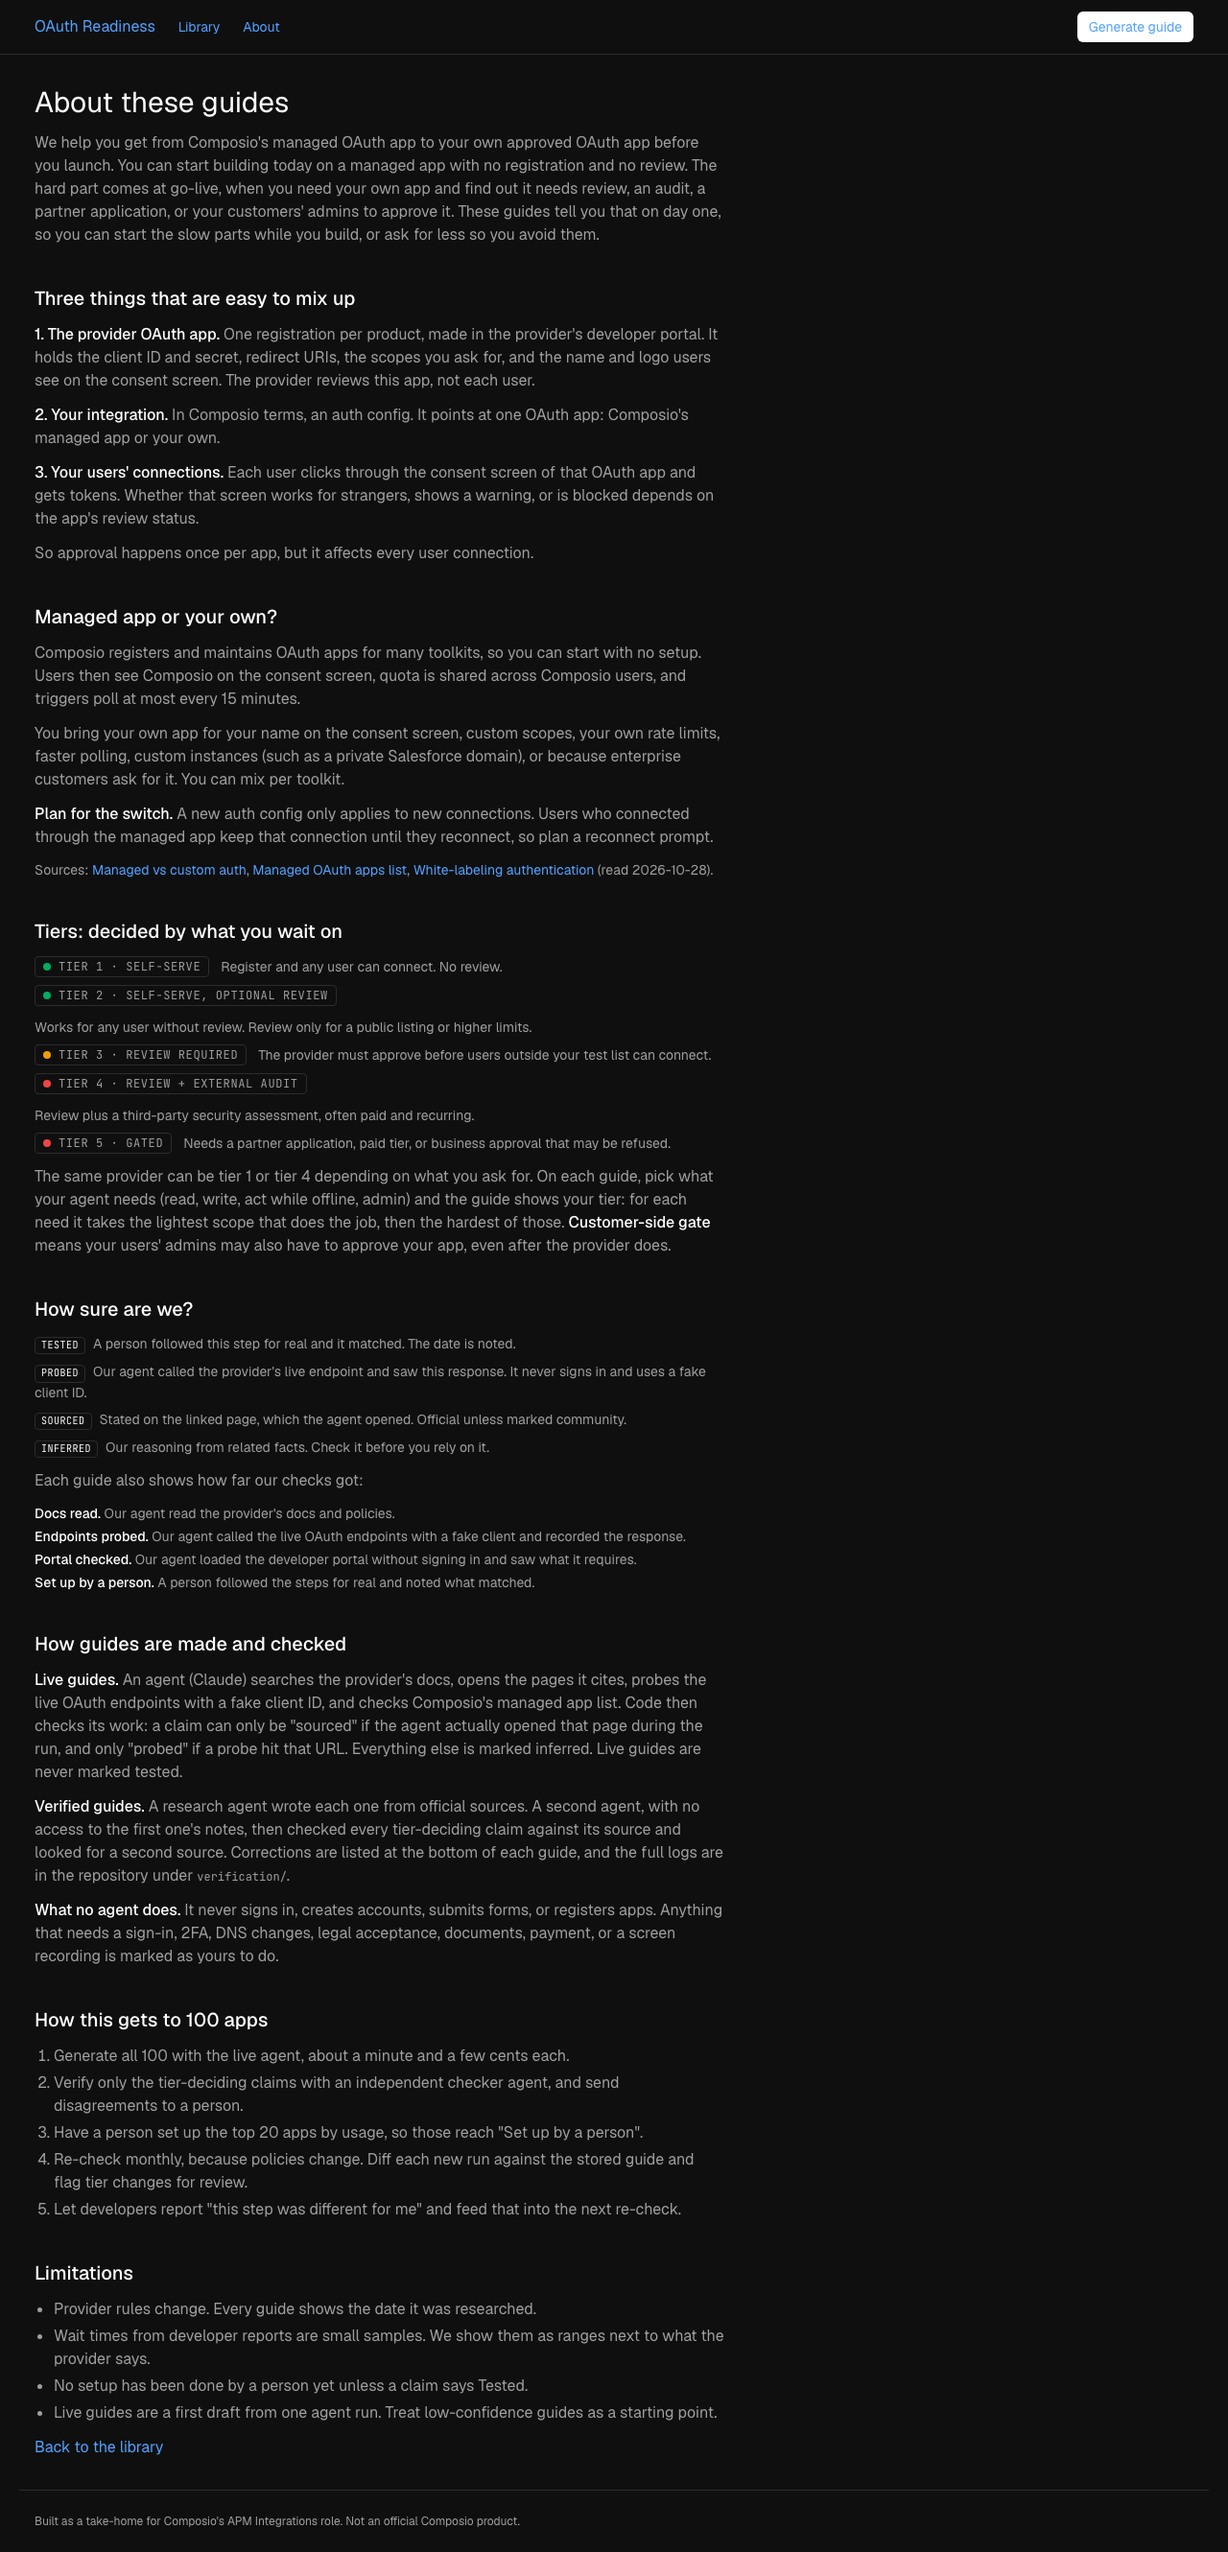
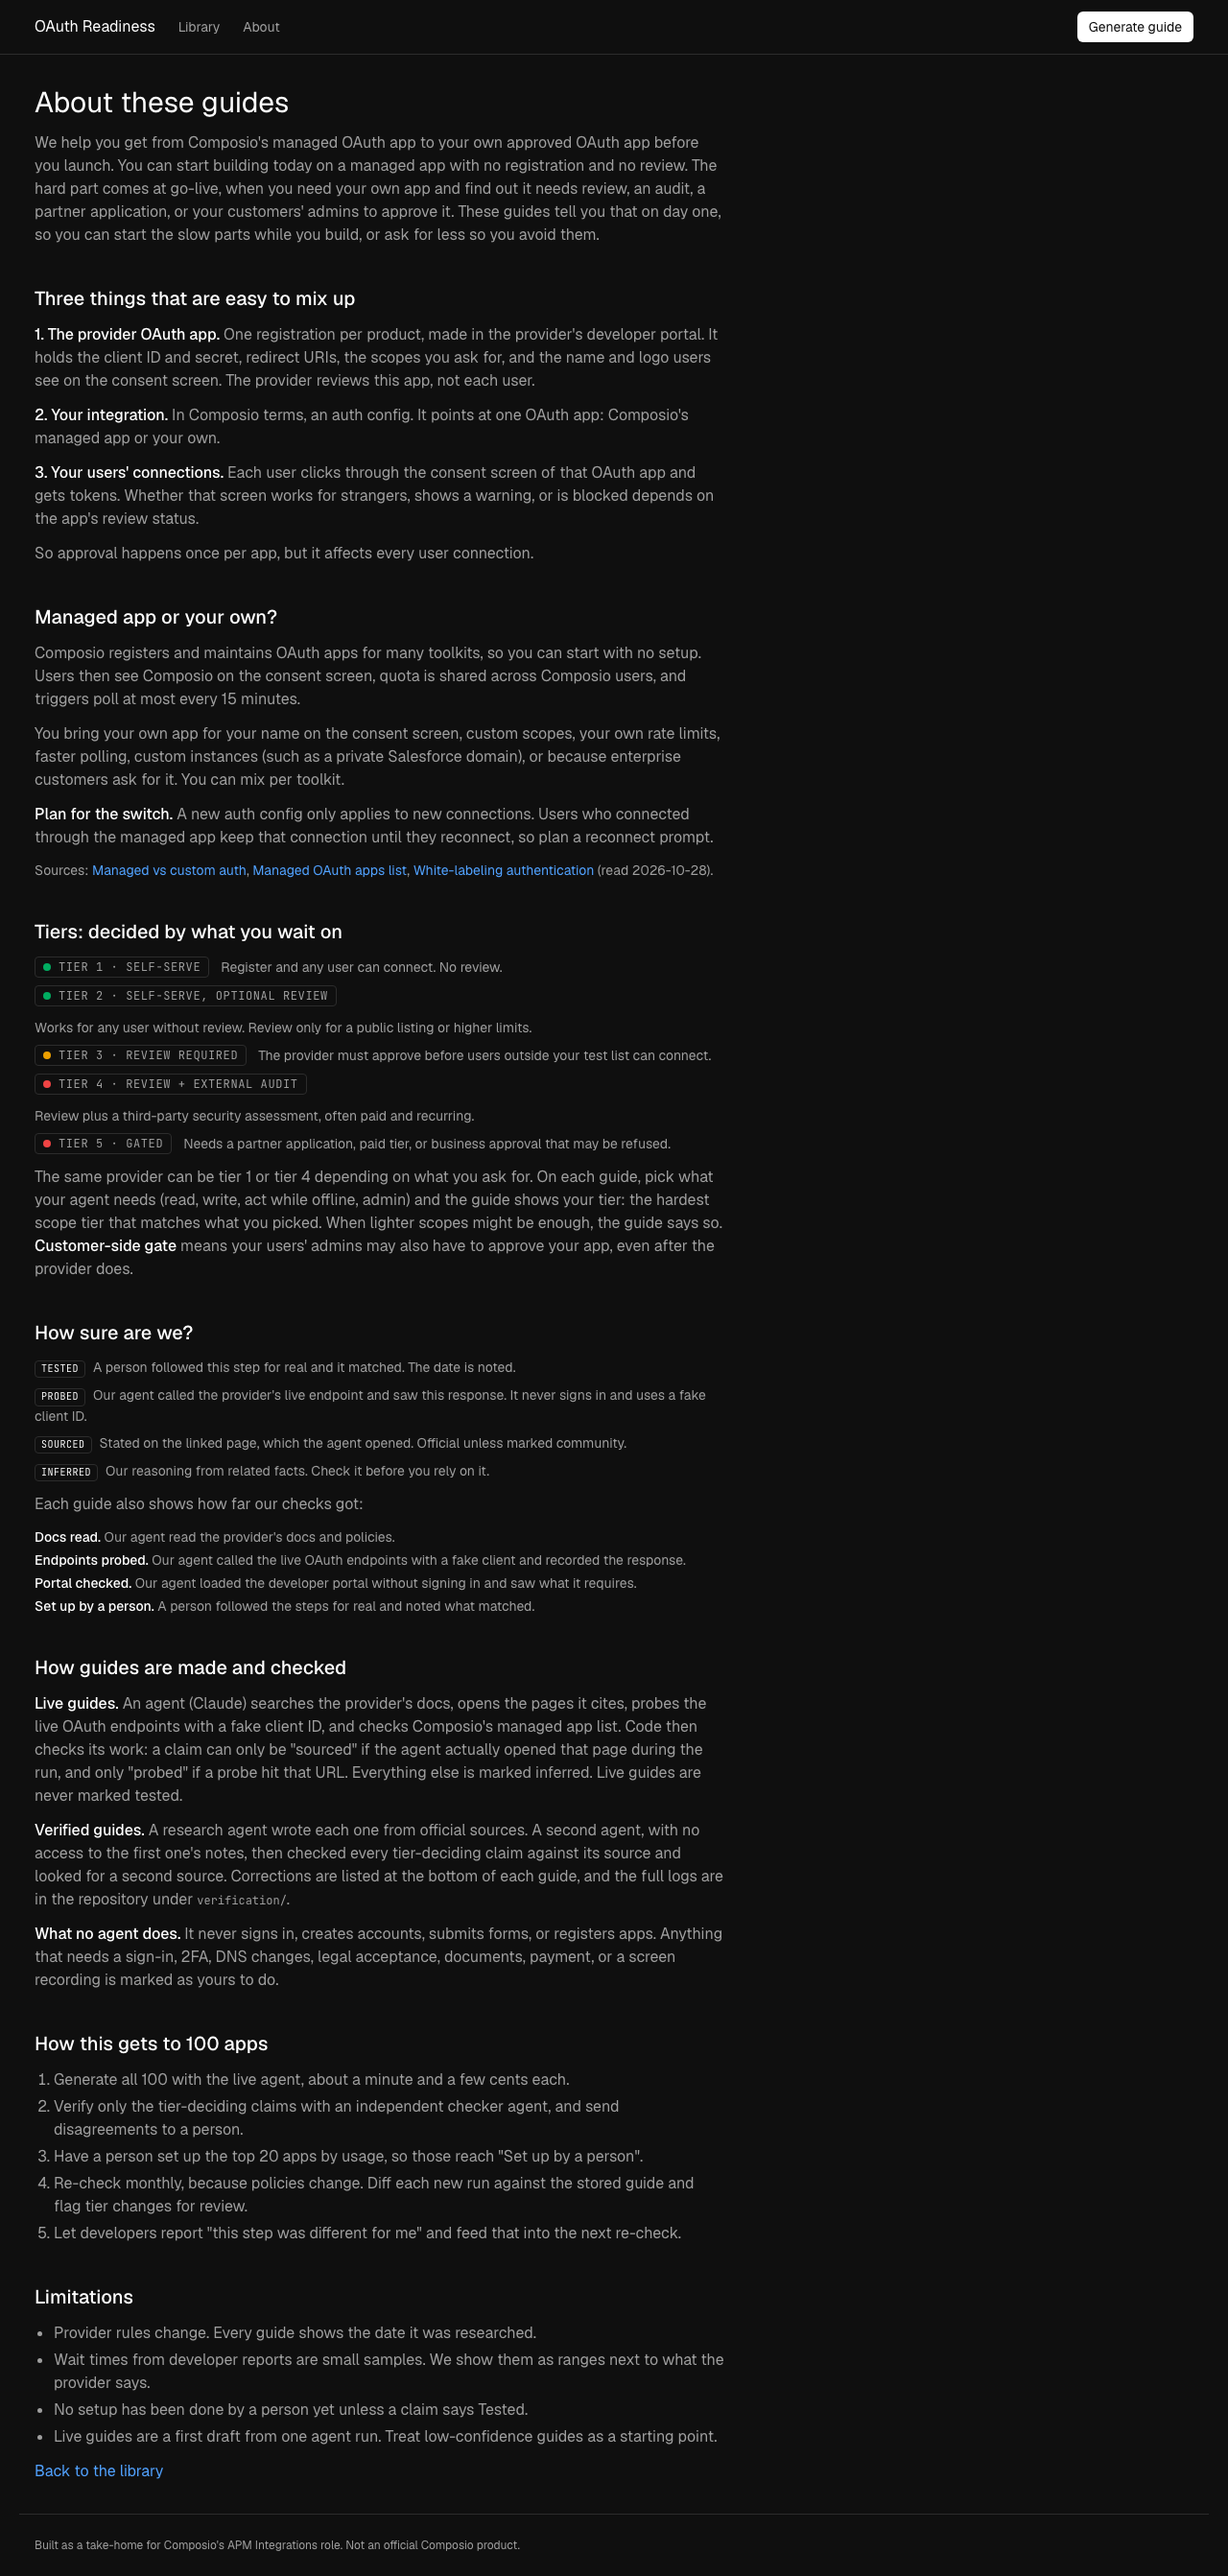
docs: refreshed screenshots with seed library; note tool_choice deviation in architecture

Changed region(s): [[0.0312, 0.0312, 0.5938, 0.9669]]

diff --git a/docs/ARCHITECTURE.md b/docs/ARCHITECTURE.md
@@ -64,7 +64,7 @@ input -> normalize -> [seed match?] -> research loop -> synthesis -> postprocess
    - `probe_oauth(input)`: unauthenticated probes (below).
    - `check_composio_managed(appName)`: managed app status.
    Budgets: max 20 tool calls, soft deadline 100s. On budget or deadline, stop researching and synthesize with what we have; the prompt tells the model to lower confidence and list gaps.
-4. **Synthesis.** Same conversation, force `tool_choice` to `submit_guide` whose `input_schema` is generated from the zod schema (omit fields the server fills: slug, origin, generatedAt, generator).
+4. **Synthesis.** (As built: `claude-sonnet-5-5` rejects forced `tool_choice`, so `submit_guide` is offered with `tool_choice: auto`, the prompt says to call it, and a text-only turn gets one nudge. See DECISIONS.md.) Same conversation, force `tool_choice` to `submit_guide` whose `input_schema` is generated from the zod schema (omit fields the server fills: slug, origin, generatedAt, generator).
 5. **Validate.** zod parse. On failure, send the zod issues back once and ask for a corrected `submit_guide`. Second failure: emit `error` with a clear message.
 6. **Postprocess.** Deterministic rules from GUIDE_SCHEMA.md.
 7. **Persist.** Live slug = `<appslug>-<6 random base36>`; immutable. Store, then emit `done {slug}`.
